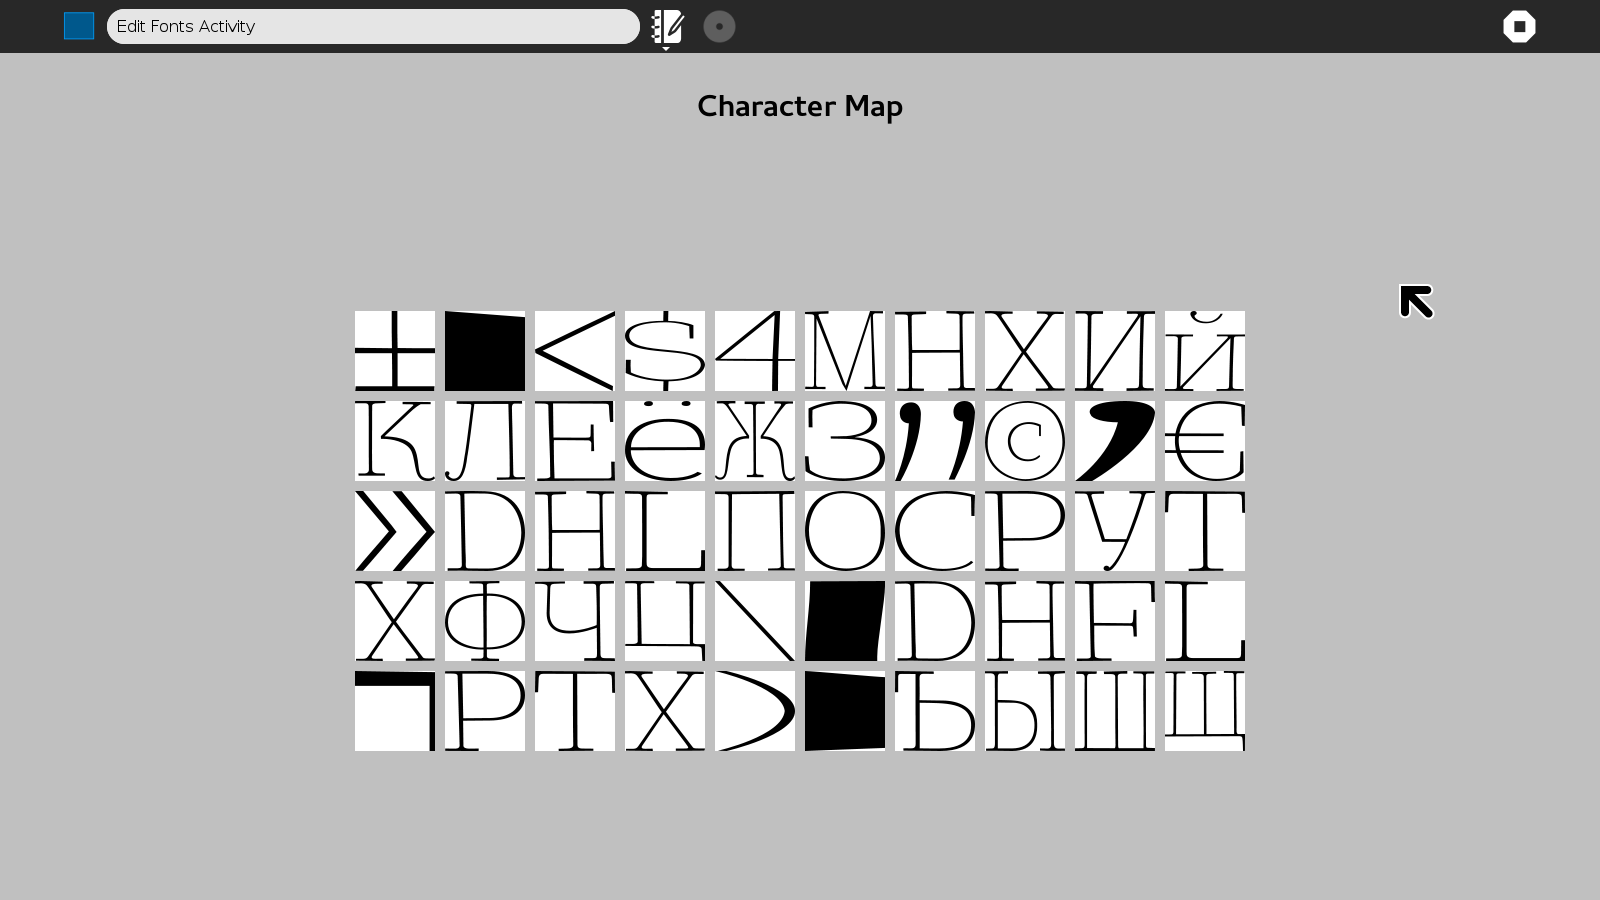
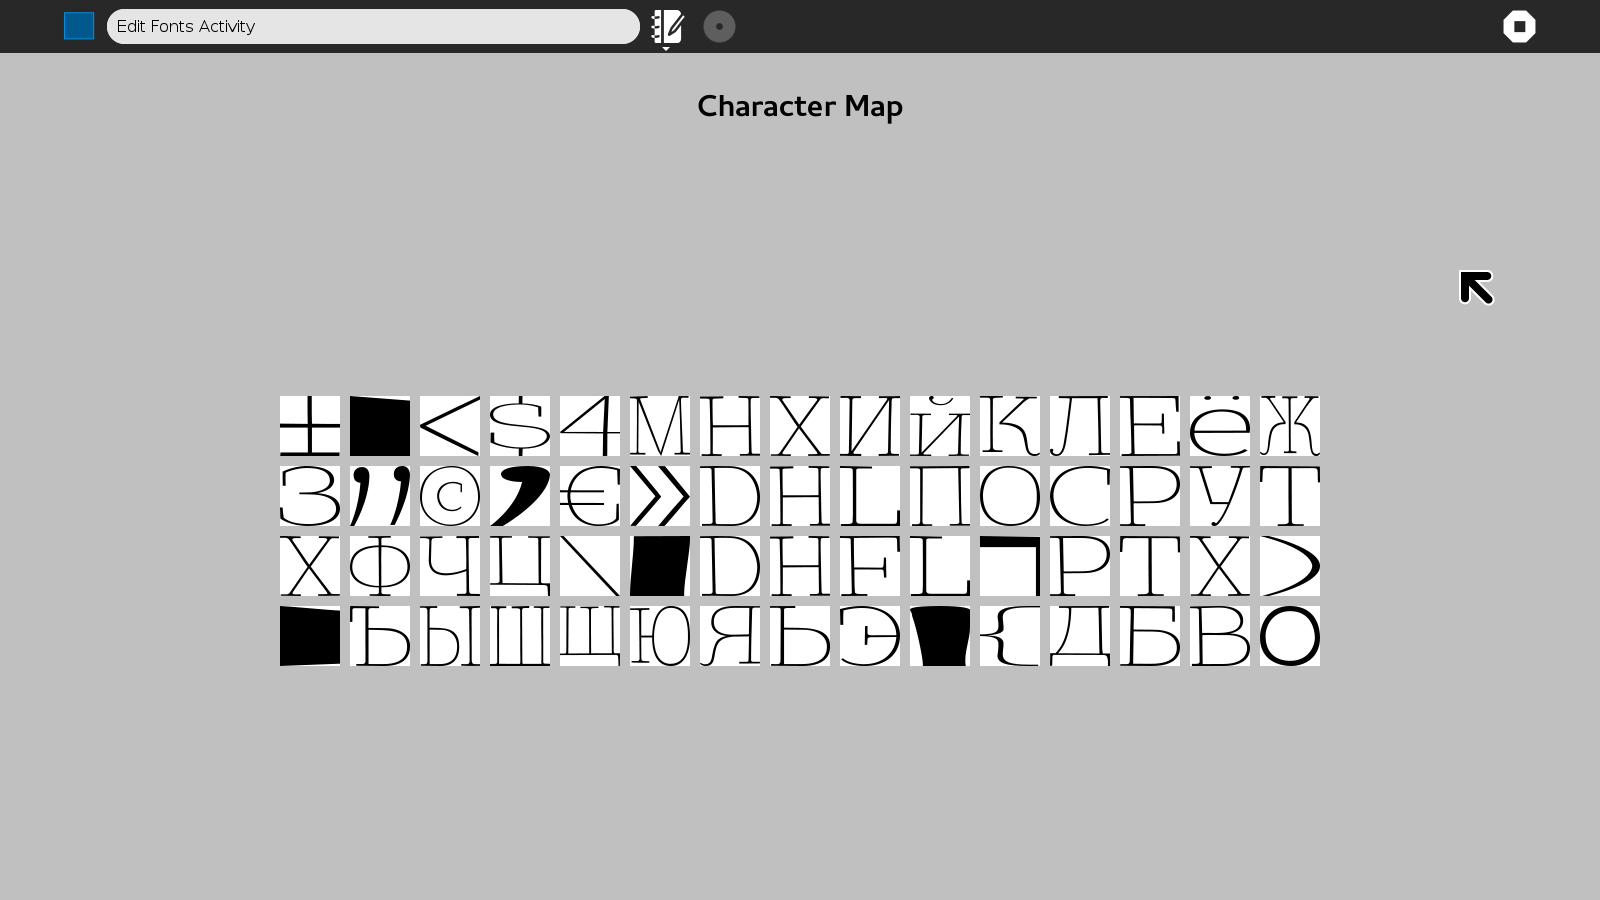
adding screenshot

Changed region(s): [[0.1562, 0.3422, 0.8438, 0.84], [0.875, 0.28, 0.9375, 0.3733]]

diff --git a/EditFonts.py b/EditFonts.py
@@ -131,12 +131,12 @@ class EditFonts(activity.Activity):
 
         elementsInGrid = 14*7
 
-        glyphList= completeGlyphList[0:50] 
+        glyphList= completeGlyphList[0:60] 
         
         print(len(glyphList))
 
         #Not Working
-        glyphGrid= glyphGridInstance(font, glyphList)
+        glyphGrid= glyphGridInstance(font, glyphList, 15, 60)
         """
         grid = Gtk.Grid()
         GRID_WIDTH = 14;  #number of columns  

diff --git a/defconGTK/glyphGridInstance.py b/defconGTK/glyphGridInstance.py
@@ -59,6 +59,7 @@ class glyphGridInstance(Gtk.Box):
         for glyphName in self.glyphList:
             
             box= Gtk.Box()
+            print(glyphName)
             glyphBox = renderGlyph(self.font[glyphName], self._GRID_BOX_SIZE, self._GRID_BOX_SIZE)     
             box.add(glyphBox)
             self.grid.attach(box, i, j, 1, 1)

diff --git a/README.md b/README.md
@@ -1,5 +1,10 @@
 # Edit Fonts UI Mock-up
 A UI mock-up built with GTK, for GSoC16 project: https://github.com/sugarlabs/edit-fonts-activity
 
+##New Features
+* Normalised the glyph drawing code
+* Made a renderGlyph Class for drawing the glyph inside a specified box size
+* Made a glyphGridInstance Class for drawing a grid of glyph from a given list
+
 here is a screenshot
-![screenshot](screenshot.png)
+![screenshot](Screenshot.png) 
